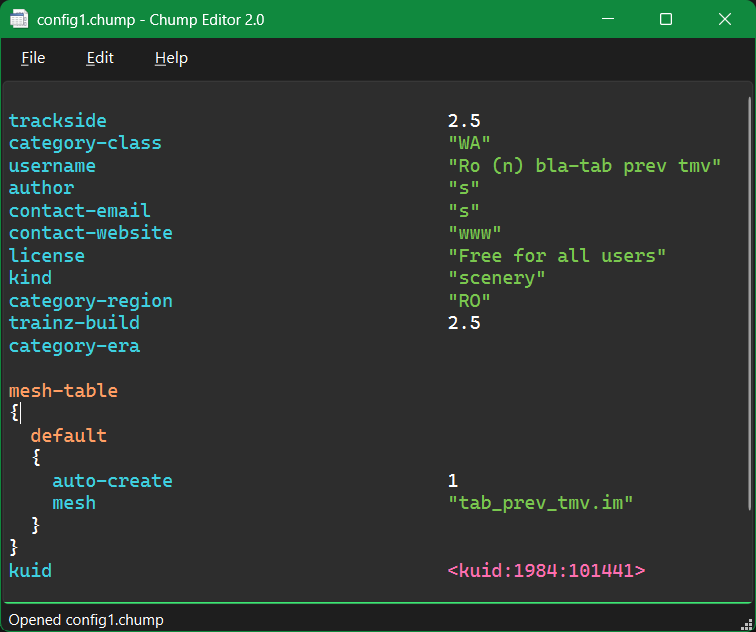
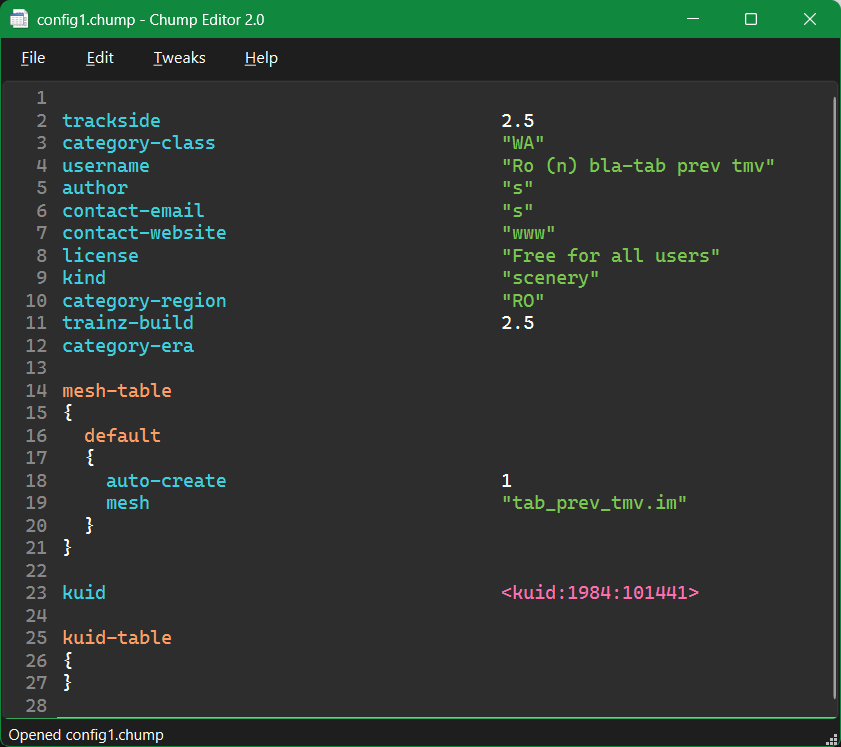
Update README.md

diff --git a/README.md b/README.md
@@ -2,7 +2,7 @@
 
 [![GitHub release (latest by date)](https://img.shields.io/github/v/release/SilverGreen93/ChumpEditor)](https://github.com/SilverGreen93/ChumpEditor/releases/latest) [![Downloads (Latest Release)](https://img.shields.io/github/downloads/SilverGreen93/ChumpEditor/latest/total?label=latest%20release%20downloads)](https://github.com/SilverGreen93/ChumpEditor/releases/latest) ![GitHub all releases](https://img.shields.io/github/downloads/SilverGreen93/ChumpEditor/total?label=total%20downloads)
 
-Editor for config.chump or config.txt files.
+Editor for `config.chump` or `config.txt` files.
 
 Features:
 
@@ -10,7 +10,8 @@ Features:
 - Can be used directly as an editor for config.txt/config.chump files
 - Contains tweaks to modernize obsolete config files (see below)
 - Offers syntax highlighting and line numbers
-- Finds and replaces text in a panel along the bottom of the window (Ctrl+F)
+- Syntax checking for files
+- Quick find & replace
 
 ![screenshot](assets/screenshot.png)
 
@@ -43,8 +44,7 @@ python chumpeditor_cli_entry.py config.chump
 python chumpeditor_gui_entry.py
 ```
 
-Prebuilt Windows builds come as a portable zip and a per-user MSI; see
-[Releases](https://github.com/SilverGreen93/ChumpEditor/releases/latest).
+Prebuilt Windows builds come as a portable zip and a per-user MSI; see [Releases](https://github.com/SilverGreen93/ChumpEditor/releases/latest).
 
 ## Command line
 
@@ -564,8 +564,7 @@ Add/Remove Programs. **ChumpEditor**, without one, is what a person types:
 
 ## Notes on the format
 
-[chump-format.md](https://github.com/SilverGreen93/CDPExplorer/blob/master/chump-format.md)
-is the reference. The short version:
+See [chump-format.md](https://github.com/SilverGreen93/CDPExplorer/blob/master/chump-format.md) for the reference. The short version:
 
 - A `.chump` starts with `ACS$`, the format version (1), a reserved zero and
   the content length; the tags start at offset 16.
